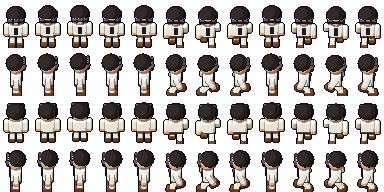
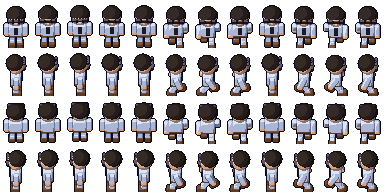
Royale's high roller: an ice-blue suit, not white
Walking the red carpet under warm light, the white suit read as bare skin.

Claude-Session: https://claude.ai/code/session_01D64r7qp9r1aCtRpZrBisjj

diff --git a/tools/bridge-art/characters.py b/tools/bridge-art/characters.py
@@ -388,7 +388,7 @@ NPCS = {
                           hair=('#6a2a14', '#9a4422', '#c06030'), bun=True, tray=True, pose='stand'),
     'npc-server-b':  dict(skin='skin', shirt=('#9a968c', '#e4e0d4', '#fbf8f0'), waistcoat=('#0e0e14', '#1c1c26', '#30303e'),
                           bowtie=('#5a0a14', '#8a1420', '#b02030'), hair=('#c8a050', '#e8c870', '#f8e8a0'), tray=True, pose='stand'),
-    'npc-highroller': dict(skin='skin', shirt=('#a8a49a', '#e8e4d8', '#fcfaf2'), pants=('#a8a49a', '#e8e4d8', '#fcfaf2'),
+    'npc-highroller': dict(skin='skin', shirt=('#6a7490', '#aab6d4', '#dce4f6'), pants=('#6a7490', '#aab6d4', '#dce4f6'),   # an ice-blue suit (white read as skin under the warm light)
                           bib=('#0e0e14', '#1c1c26', '#30303e'), hair=('#141010', '#241c1a', '#362a26'), shades=True, pose='stand'),
     'npc-gambler-a': dict(skin='skin', shirt=('#7a5a10', '#c89a28', '#f0d060'), skirt=('#7a5a10', '#c89a28', '#f0d060'), gown=True,
                           sequin=True, sleeve='skin', hair=('#6a1a0a', '#a02a10', '#d04a20'), long_hair=True, pose='sit'),
